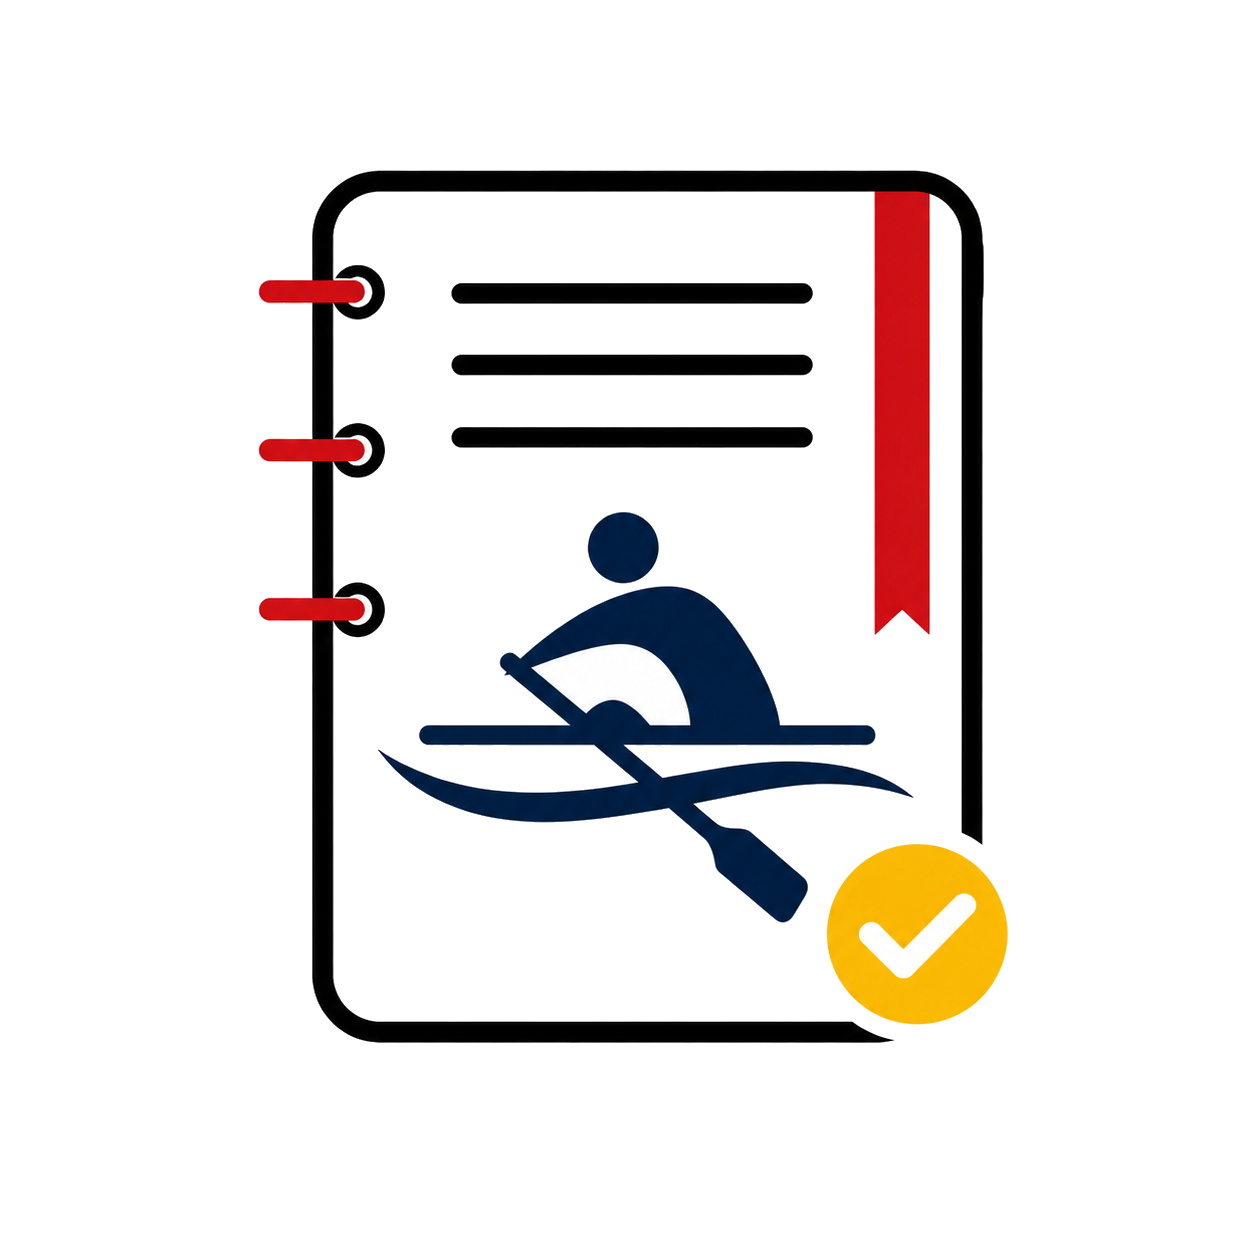
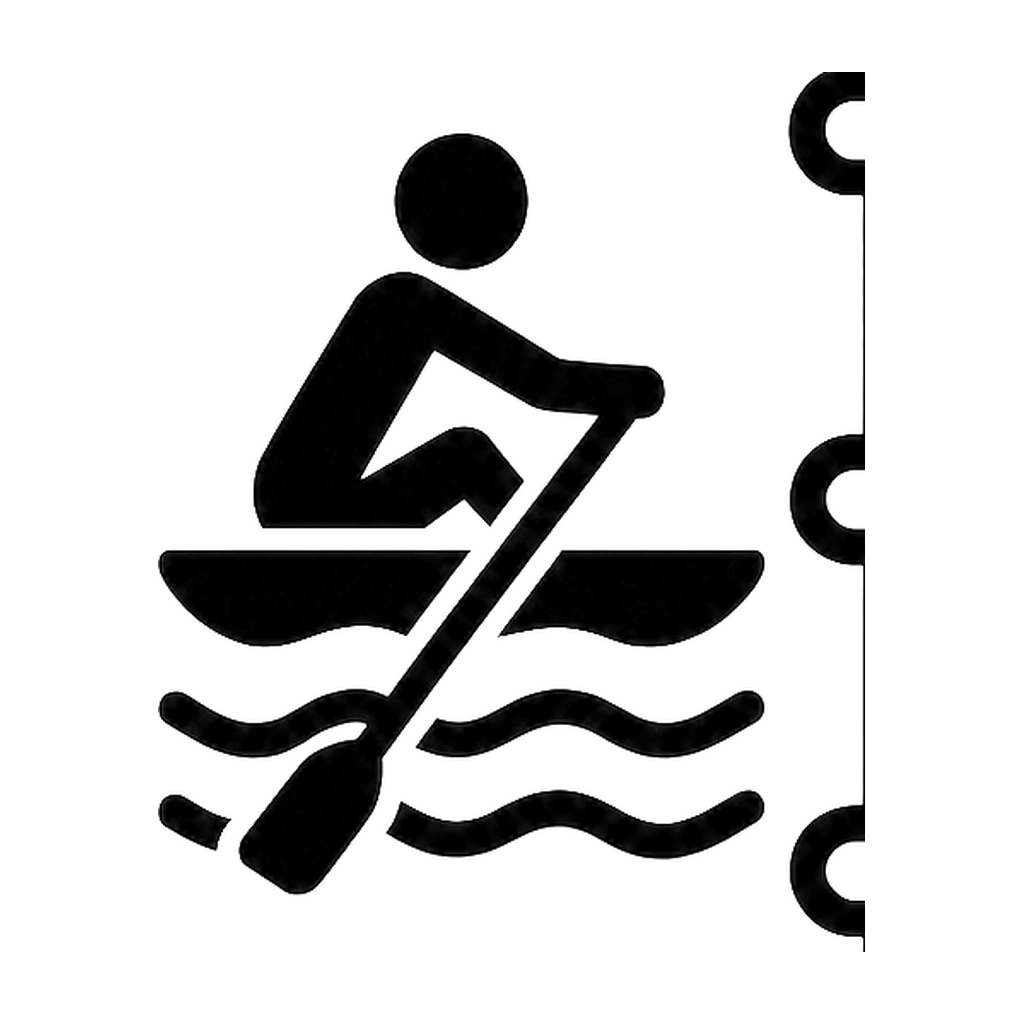
Add files via upload

Changed region(s): [[0.1562, 0.0625, 0.8438, 0.9375]]

diff --git a/app.js b/app.js
@@ -1954,8 +1954,8 @@ function sendNotification(title, body, options = {}) {
     navigator.serviceWorker.ready
       .then((registration) => registration.showNotification(title, {
         body,
-        icon: "/logbook-icon-v10.png",
-        badge: "/logbook-icon-v10.png",
+        icon: "/logbook-icon-v11.png",
+        badge: "/logbook-icon-v11.png",
         tag: options.tag || title,
         requireInteraction: Boolean(options.requireInteraction)
       }))
@@ -1968,7 +1968,7 @@ function sendNotification(title, body, options = {}) {
 function showWindowNotification(title, body, options = {}) {
   new Notification(title, {
     body,
-    icon: "/logbook-icon-v10.png",
+    icon: "/logbook-icon-v11.png",
     tag: options.tag || title,
     requireInteraction: Boolean(options.requireInteraction)
   });

diff --git a/index.html b/index.html
@@ -5,9 +5,9 @@
     <meta name="viewport" content="width=device-width, initial-scale=1">
     <meta name="theme-color" content="#0f6f7d">
     <title>AWRC Outing Logbook</title>
-    <link rel="manifest" href="manifest.json">
-    <link rel="icon" href="/logbook-icon-v10.png" type="image/png">
-    <link rel="apple-touch-icon" href="/logbook-icon-v10.png">
+    <link rel="manifest" href="manifest-v11.json">
+    <link rel="icon" href="/logbook-icon-v11.png" type="image/png">
+    <link rel="apple-touch-icon" href="/logbook-icon-v11.png">
     <link rel="stylesheet" href="styles.css">
   </head>
   <body>

diff --git a/service-worker.js b/service-worker.js
@@ -19,8 +19,8 @@ self.addEventListener("push", (event) => {
   const title = payload.title || "Outing Logbook alert";
   const options = {
     body: payload.message || payload.body || "Open Outing Logbook for details.",
-    icon: "/logbook-icon-v10.png",
-    badge: "/logbook-icon-v10.png",
+    icon: "/logbook-icon-v11.png",
+    badge: "/logbook-icon-v11.png",
     tag: payload.tag || payload.key || payload.id || "water-log-alert",
     data: payload.url || "./",
     requireInteraction: Boolean(payload.requireInteraction)
